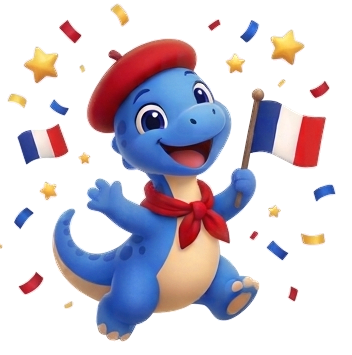
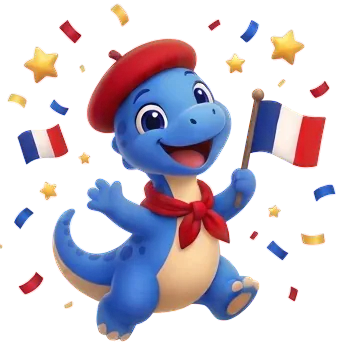
perf: lighter images, self-hosted fonts, precaching service worker, lazy pages
- Re-encode mascot images as lossy WebP capped at 460px (1.58 MB -> 0.60 MB)
  and use a 3 KB favicon instead of the 117 KB mascot face.
- Bundle Fredoka and Red Hat Text via @fontsource-variable; load the Noto
  Color Emoji stylesheet without blocking first paint.
- Service worker precaches the app shell (filled in at build time with a
  per-build cache version), serves images stale-while-revalidate, caches
  Google Fonts for offline emoji, and keeps a capped audio cache.
- Lazy-load Library, VerbPage, Practice, Progress, Settings and Profiles
  (main JS 146 -> 130 KB gzip).

Changed region(s): [[0.6875, 0.093, 0.7188, 0.1239]]

diff --git a/public/sw.js b/public/sw.js
@@ -1,29 +1,60 @@
-// Offline support. Hashed build files (/assets/) are cache-first, since they never change.
-// Everything else on this origin is network-first, falling back to the cache when offline.
-// Audio clips, images and pages are cached the first time they load.
-// ponytail: no precache list. A page or clip works offline only after it has been opened online once.
-const CACHE = 'verbidoo-v1'
+// Offline support.
+// - Install precaches the app shell: the page, the hashed build files (/assets/), mascot images and icons.
+//   The build (vite.config.ts → serviceWorker plugin) fills PRECACHE and VERSION; in dev both stay empty (no SW in dev).
+// - /assets/ is cache-first (hashed names never change). Images are stale-while-revalidate (instant, refreshed in the background).
+// - Audio clips go to their own cache that survives app updates, capped at AUDIO_MAX clips (oldest dropped first).
+// - Google Fonts (the emoji font) is cached too, so emoji and flags still draw offline.
+// - Everything else on this origin is network-first, falling back to the cache when offline.
+const VERSION = /*VERSION*/'dev'
+const PRECACHE = /*PRECACHE*/[]
+const SHELL = `verbidoo-${VERSION}`
+const AUDIO = 'verbidoo-audio-v1'
+const FONTS = 'verbidoo-fonts-v1'
+const AUDIO_MAX = 800 // ~9 KB each → ~7 MB
 
-self.addEventListener('install', () => self.skipWaiting())
+self.addEventListener('install', (e) => e.waitUntil(
+  caches.open(SHELL).then((c) => c.addAll(PRECACHE)).then(() => self.skipWaiting()),
+))
 self.addEventListener('activate', (e) => e.waitUntil(
-  caches.keys().then((keys) => Promise.all(keys.filter((k) => k !== CACHE).map((k) => caches.delete(k))))
+  caches.keys().then((keys) => Promise.all(keys.filter((k) => ![SHELL, AUDIO, FONTS].includes(k)).map((k) => caches.delete(k))))
     .then(() => self.clients.claim()),
 ))
 
+const ok = (res) => res.status === 200 || res.type === 'opaque' // 206 audio ranges are never cached
+const put = (cache, req, res) => { if (ok(res)) { const copy = res.clone(); caches.open(cache).then((c) => c.put(req, copy)) } return res }
+const cacheFirst = (cache, req) => caches.match(req).then((hit) => hit || fetch(req).then((res) => put(cache, req, res)))
+const staleWhileRevalidate = (cache, req) => caches.match(req).then((hit) => {
+  const net = fetch(req).then((res) => put(cache, req, res))
+  if (!hit) return net
+  net.catch(() => {}) // offline: the cached copy is fine
+  return hit
+})
+const networkFirst = (cache, req) => fetch(req).then((res) => put(cache, req, res)).catch(async () =>
+  (await caches.match(req)) || (req.mode === 'navigate' && (await caches.match('/'))) || Response.error())
+
+let trimming = false
+async function trimAudio() {
+  if (trimming) return
+  trimming = true
+  try {
+    const c = await caches.open(AUDIO)
+    const keys = await c.keys() // insertion order: oldest first
+    await Promise.all(keys.slice(0, Math.max(0, keys.length - AUDIO_MAX)).map((k) => c.delete(k)))
+  } finally { trimming = false }
+}
+
 self.addEventListener('fetch', (e) => {
   const req = e.request
+  if (req.method !== 'GET') return
   const url = new URL(req.url)
-  if (req.method !== 'GET' || url.origin !== location.origin) return // Supabase, fonts, etc. go straight to network
 
-  const save = (res) => {
-    if (res.status === 200) { const copy = res.clone(); caches.open(CACHE).then((c) => c.put(req, copy)) } // skip 206 audio ranges
-    return res
-  }
+  if (url.hostname === 'fonts.googleapis.com') return e.respondWith(staleWhileRevalidate(FONTS, req))
+  if (url.hostname === 'fonts.gstatic.com') return e.respondWith(cacheFirst(FONTS, req))
+  if (url.origin !== location.origin) return // Supabase and other APIs go straight to the network
 
-  if (url.pathname.startsWith('/assets/')) {
-    e.respondWith(caches.match(req).then((hit) => hit || fetch(req).then(save)))
-    return
-  }
-  e.respondWith(fetch(req).then(save).catch(async () =>
-    (await caches.match(req)) || (req.mode === 'navigate' && (await caches.match('/'))) || Response.error()))
+  const p = url.pathname
+  if (p.startsWith('/assets/')) return e.respondWith(cacheFirst(SHELL, req))
+  if (p.startsWith('/img/') || p.startsWith('/icons/')) return e.respondWith(staleWhileRevalidate(SHELL, req))
+  if (p.startsWith('/audio/')) return e.respondWith(networkFirst(AUDIO, req).finally(() => { void trimAudio() }))
+  e.respondWith(networkFirst(SHELL, req))
 })

diff --git a/src/App.tsx b/src/App.tsx
@@ -1,4 +1,4 @@
-import { useEffect, useSyncExternalStore } from 'react'
+import { lazy, Suspense, useEffect, useSyncExternalStore, type ComponentType } from 'react'
 import { LanguagePill, Logo } from './components/mascot'
 import { Learn } from './pages/Learn'
 import { Avatar } from './components/ui'
@@ -6,13 +6,18 @@ import { Icon, type IconName } from './components/icons'
 import { initCloud, useCloud } from './lib/cloud'
 import { levelOf, nameOf, t, useProfiles, useProgress } from './lib/progress'
 import { Dashboard } from './pages/Dashboard'
-import { Library } from './pages/Library'
-import { Settings } from './pages/Settings'
-import { Practice } from './pages/Practice'
-import { Profiles } from './pages/Profiles'
-import { ProgressPage } from './pages/ProgressPage'
 import { Setup } from './pages/Setup'
-import { VerbPage } from './pages/VerbPage'
+
+// Home and first-run setup ship in the main bundle; every other page is its own chunk, fetched on first visit
+// (and precached by sw.js once the app is installed, so later visits are instant).
+const lazyPage = <K extends string>(load: () => Promise<Record<K, ComponentType<any>>>, name: K) =>
+  lazy(() => load().then((m) => ({ default: m[name] })))
+const Library = lazyPage(() => import('./pages/Library'), 'Library')
+const Settings = lazyPage(() => import('./pages/Settings'), 'Settings')
+const Practice = lazyPage(() => import('./pages/Practice'), 'Practice')
+const Profiles = lazyPage(() => import('./pages/Profiles'), 'Profiles')
+const ProgressPage = lazyPage(() => import('./pages/ProgressPage'), 'ProgressPage')
+const VerbPage = lazyPage(() => import('./pages/VerbPage'), 'VerbPage')
 
 // ponytail: a handful of routes, hash-based — no router dependency. Add react-router if routes need loaders/nesting.
 const subscribe = (l: () => void) => (addEventListener('hashchange', l), () => removeEventListener('hashchange', l))
@@ -27,6 +32,10 @@ const NAV: { path: string; icon: IconName; label: 'home' | 'verbs' | 'play' | 'p
 ]
 
 export default function App() {
+  return <Suspense fallback={<div className="min-h-dvh" />}><Routes /></Suspense>
+}
+
+function Routes() {
   const s = useProgress()
   const idx = useProfiles()
   const cloud = useCloud()
@@ -76,11 +85,13 @@ export default function App() {
       )}
 
       <main className={`mx-auto w-full min-w-0 ${inGame ? 'max-w-2xl px-4 pb-8 pt-4' : 'max-w-[1120px] px-4 pb-32 pt-3 sm:px-6 lg:px-12 lg:pb-12 lg:pt-8'}`}>
-        {page === 'verb' ? <VerbPage id={arg} />
-          : page === 'verbs' ? <Library cat={arg} />
-          : page === 'play' ? <Practice key={arg + extra} game={arg} focus={extra} />
-          : page === 'progress' ? <ProgressPage />
-          : <Dashboard />}
+        <Suspense fallback={null /* keeps the nav on screen while a page chunk loads */}>
+          {page === 'verb' ? <VerbPage id={arg} />
+            : page === 'verbs' ? <Library cat={arg} />
+            : page === 'play' ? <Practice key={arg + extra} game={arg} focus={extra} />
+            : page === 'progress' ? <ProgressPage />
+            : <Dashboard />}
+        </Suspense>
       </main>
 
       {/* Phone/tablet floating tab bar (design M03–M08). */}

diff --git a/vite.config.ts b/vite.config.ts
@@ -1,5 +1,41 @@
-import { defineConfig } from 'vite'
+/// <reference types="node" />
+import { createHash } from 'node:crypto'
+import { readFileSync, readdirSync, writeFileSync } from 'node:fs'
+import { join } from 'node:path'
+import { defineConfig, type Plugin } from 'vite'
 import react from '@vitejs/plugin-react'
 import tailwindcss from '@tailwindcss/vite'
 
-export default defineConfig({ plugins: [react(), tailwindcss()], server: { host: true } }) // host: reachable from phones on the LAN
+/**
+ * Fills public/sw.js's PRECACHE list and VERSION after a build: the page, the JS/CSS chunks, the Latin text fonts,
+ * the mascot images and icons. VERSION is a hash of that list's contents, so each deploy that changes any of it
+ * gets a fresh shell cache and the old one is dropped.
+ */
+function serviceWorker(): Plugin {
+  let outDir = 'dist', publicDir = 'public'
+  return {
+    name: 'verbidoo-sw',
+    apply: 'build',
+    configResolved(c) { outDir = c.build.outDir; publicDir = c.publicDir },
+    writeBundle(_, bundle) {
+      const built = Object.entries(bundle).filter(([f, out]) => f.startsWith('assets/') &&
+        !(out.type === 'chunk' && out.facadeModuleId?.includes('node_modules')) && // Supabase: only cloud users load it, and it needs the network anyway
+        (/\.(js|css)$/.test(f) || (/\.woff2$/.test(f) && /latin/.test(f)))) // skip font subsets the app never uses (hebrew…)
+        .map(([f]) => f)
+      const fromPublic = [
+        ...readdirSync(join(publicDir, 'img')).map((f) => `img/${f}`),
+        'icons/favicon.png', 'icons/icon-192.png', 'manifest.webmanifest',
+      ]
+      const hash = createHash('sha256').update(readFileSync(join(outDir, 'index.html')))
+      for (const f of built) hash.update(f)
+      for (const f of fromPublic) hash.update(readFileSync(join(publicDir, f)))
+      const urls = ['/', ...[...built, ...fromPublic].map((f) => `/${f}`)]
+      const sw = join(outDir, 'sw.js')
+      writeFileSync(sw, readFileSync(sw, 'utf8')
+        .replace(`/*VERSION*/'dev'`, JSON.stringify(hash.digest('hex').slice(0, 12)))
+        .replace('/*PRECACHE*/[]', JSON.stringify(urls)))
+    },
+  }
+}
+
+export default defineConfig({ plugins: [react(), tailwindcss(), serviceWorker()], server: { host: true } }) // host: reachable from phones on the LAN

diff --git a/index.html b/index.html
@@ -5,7 +5,7 @@
     <meta name="viewport" content="width=device-width, initial-scale=1.0, viewport-fit=cover" />
     <title>Verbidoo</title>
     <meta name="description" content="Master French and Dutch verbs, a few minutes a day. Short, playful conjugation practice with Gaston and Ollie." />
-    <link rel="icon" type="image/webp" href="/img/gaston_face.webp" />
+    <link rel="icon" type="image/png" sizes="64x64" href="/icons/favicon.png" />
 
     <!-- PWA -->
     <link rel="manifest" href="/manifest.webmanifest" />
@@ -30,9 +30,12 @@
     <meta name="twitter:title" content="Verbidoo: learn French and Dutch verbs" />
     <meta name="twitter:description" content="Master French and Dutch verbs, a few minutes a day." />
     <meta name="twitter:image" content="https://verbidoo.quest/og-image.png" />
-    <link rel="preconnect" href="https://fonts.googleapis.com" />
     <link rel="preload" as="image" href="/img/gaston_face.webp" />
-    <link href="https://fonts.googleapis.com/css2?family=Fredoka:wght@500;600;700&family=Red+Hat+Text:wght@400;500;600;700;800&family=Noto+Color+Emoji&display=swap" rel="stylesheet" />
+    <!-- Text fonts are bundled (src/main.tsx). Noto Color Emoji stays on Google Fonts, which serves each browser a format it
+         can draw (Safari has no COLRv1), loaded without blocking the first paint; sw.js caches it for offline use. -->
+    <link rel="preconnect" href="https://fonts.gstatic.com" crossorigin />
+    <link rel="stylesheet" href="https://fonts.googleapis.com/css2?family=Noto+Color+Emoji&display=swap" media="print" onload="this.media='all'" />
+    <noscript><link rel="stylesheet" href="https://fonts.googleapis.com/css2?family=Noto+Color+Emoji&display=swap" /></noscript>
   </head>
   <body>
     <div id="root"></div>

diff --git a/src/index.css b/src/index.css
@@ -2,8 +2,8 @@
 
 /* Verbidoo design system (Gaston proposal): Bleu primary, Marine ink, Rouge accent, Fredoka titles, glass cards on a Ciel sky. */
 @theme {
-  --font-display: "Fredoka", "Red Hat Text", system-ui, sans-serif;
-  --font-sans: "Red Hat Text", system-ui, sans-serif;
+  --font-display: "Fredoka Variable", "Red Hat Text Variable", system-ui, sans-serif;
+  --font-sans: "Red Hat Text Variable", system-ui, sans-serif;
   --color-sun: #fdbe3c;
   --color-grape: #2b5ce6;
   --color-grape-dark: #1e46c4;

diff --git a/src/main.tsx b/src/main.tsx
@@ -1,6 +1,9 @@
 import { StrictMode } from 'react'
 import { createRoot } from 'react-dom/client'
 import App from './App'
+// Self-hosted (bundled into /assets): no render-blocking request to Google, and the fonts work offline.
+import '@fontsource-variable/fredoka/wght.css'
+import '@fontsource-variable/red-hat-text/wght.css'
 import './index.css'
 
 createRoot(document.getElementById('root')!).render(<StrictMode><App /></StrictMode>)
